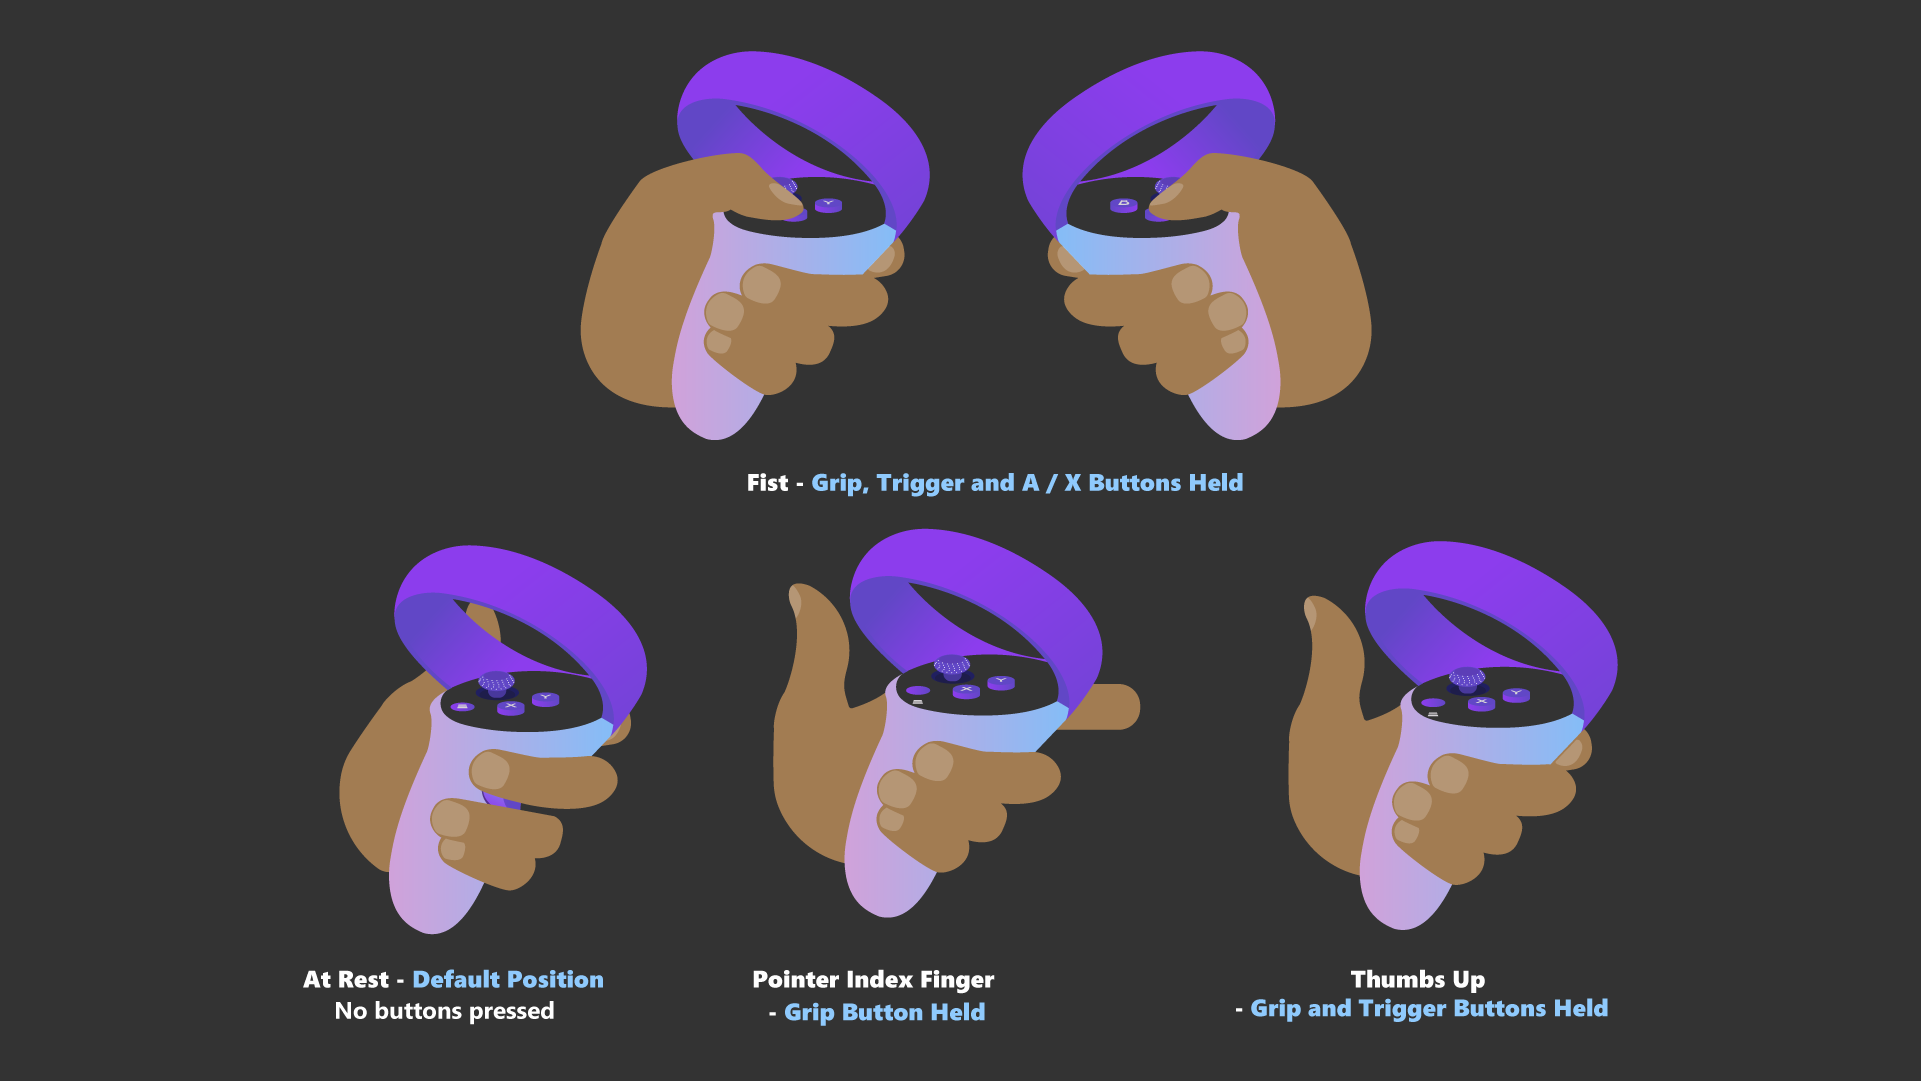
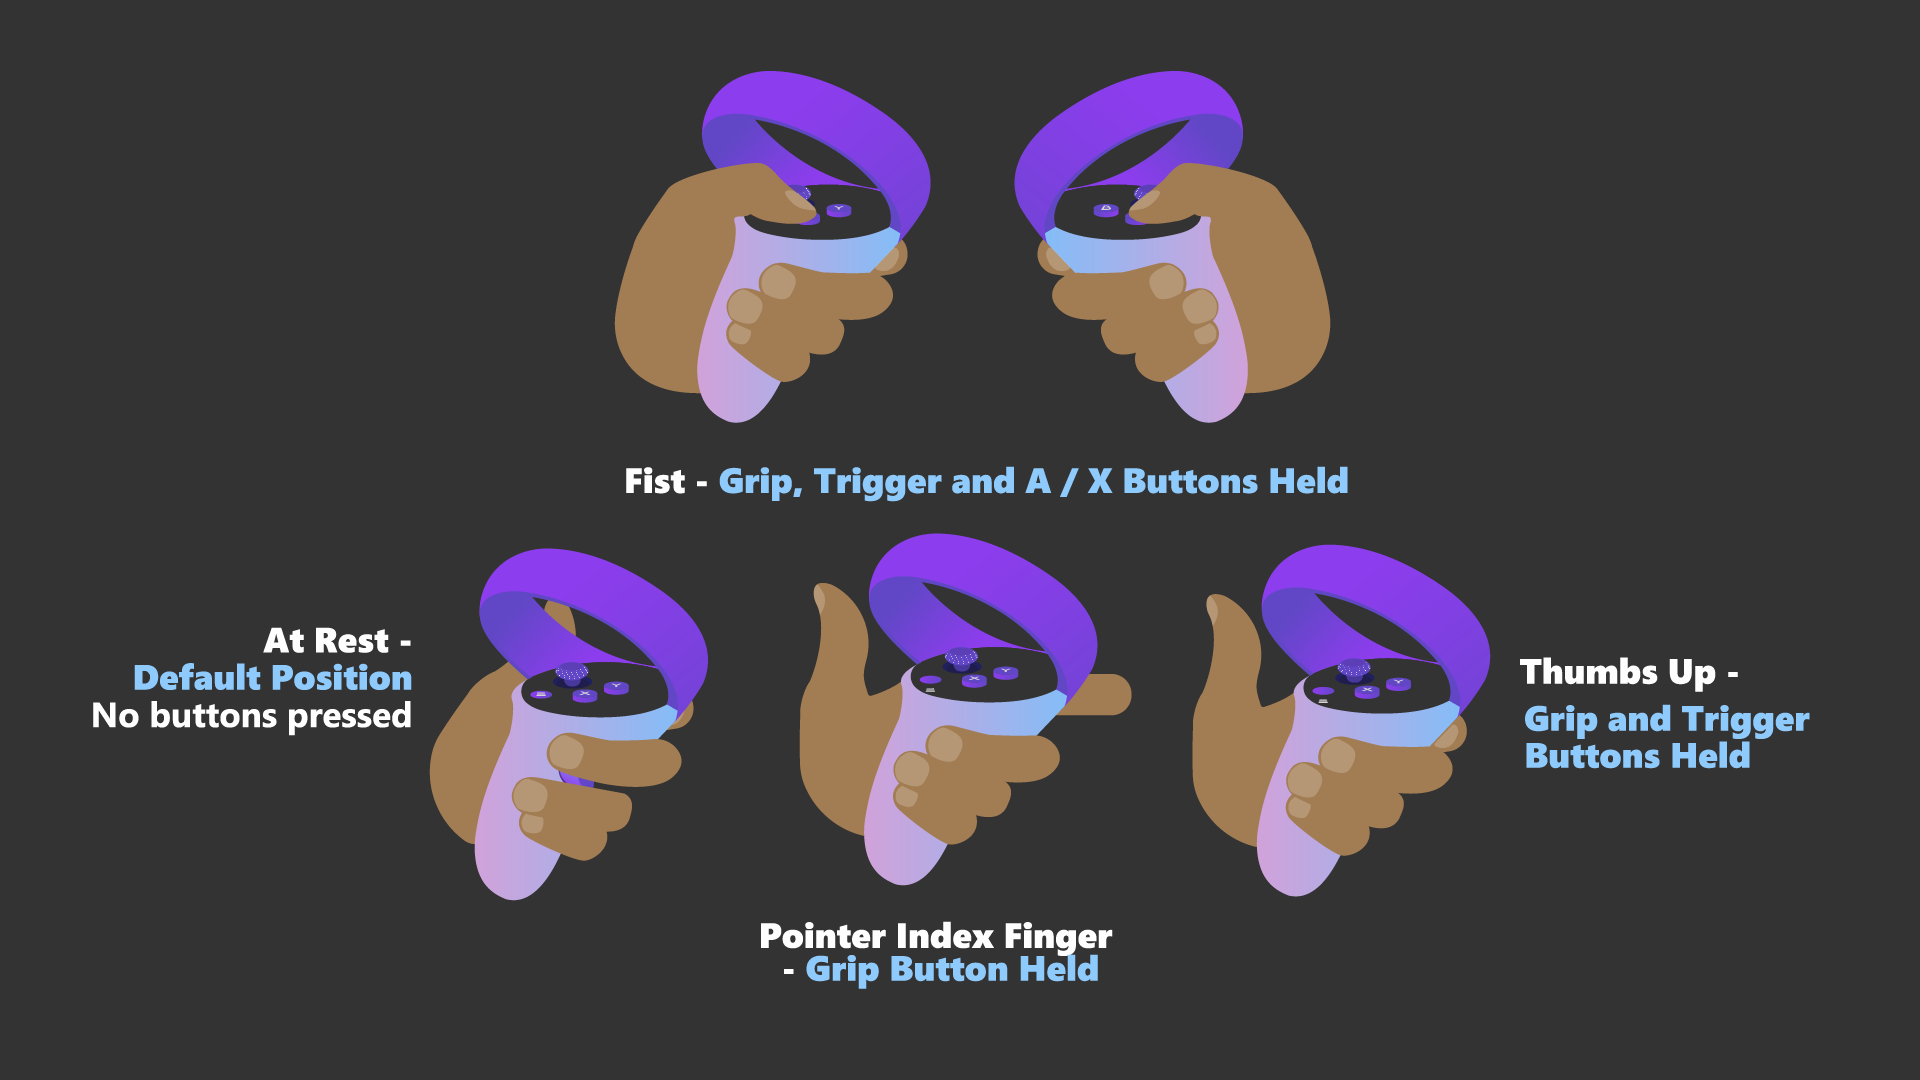
adding lightbox to quest2 hand gestuer controls png file

diff --git a/altspace-vr/getting-started/oculus-controls.md b/altspace-vr/getting-started/oculus-controls.md
@@ -26,7 +26,7 @@ keywords: oculus, oculus quest, controls, permissions, hand gestures
 
 ## Hand gestures
 
-<img src="images/quest2-hand-gesture-controls.png" alt="Oculus Quest/Quest 2 hand gestures">
+[![Oculus Quest/Quest 2 hand gestures](images/quest2-hand-gesture-controls.png)](images/quest2-hand-gesture-controls.png)
 
 | Gesture | Input |
 |---|---|
